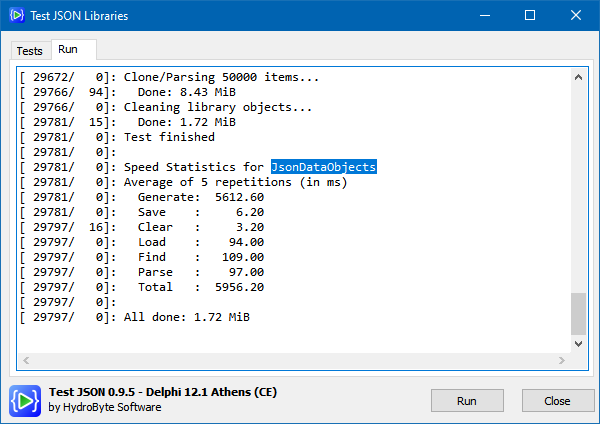
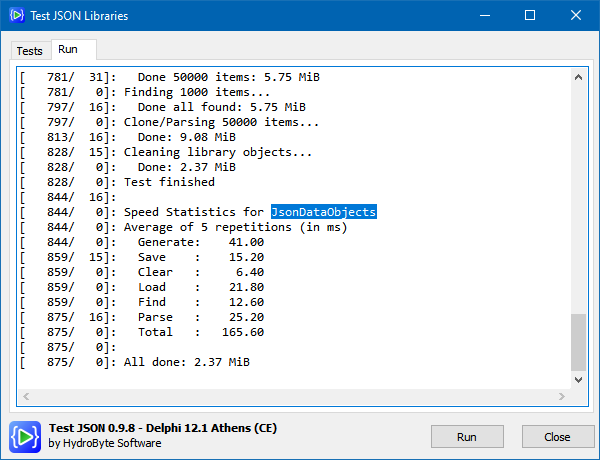
Update JsonDataObjects as Submodule.

diff --git a/README.md b/README.md
@@ -66,24 +66,24 @@ This is a performance test with the following configuration (select `Default` in
 
 ### Results with Delphi
 
-Library             | Generate  | Save     | Load     | Find     | Parse    | [Total]   | Memory    |
-:-------------------|----------:|---------:|---------:|---------:|---------:|----------:|----------:|
-`Neslib.Json`       |     .03 s |    .03 s |    .03 s |    .00 s |    .04 s |    0.18 s | 10.19 MiB |  
-`Grijjy.Bson`       |     .03 s |    .04 s |    .04 s |    .00 s |    .06 s |    0.23 s |  7.52 MiB |
-`mORMot2`           |     .02 s |    .01 s |    .02 s |    .12 s |    .02 s |    0.23 s |  7.91 MiB |
-`chimera.json`      |     .04 s |    .03 s |    .08 s |    .01 s |    .08 s |    0.30 s |  8.78 MiB |  
-`McJSON`            |     .02 s |    .06 s |    .02 s |    .18 s |    .08 s |    0.41 s |  9.85 MiB |
-`System.JSON`       |     .02 s |    .01 s |    .06 s |    .22 s |    .06 s |    0.43 s | 11.38 MiB |
-`EasyJson`          |     .02 s |    .01 s |    .06 s |    .23 s |    .07 s |    0.45 s | 11.38 MiB |  
-`LkJson`            |     .06 s |    .05 s |    .10 s |    .01 s |    .14 s |    0.45 s |  2.99 MiB |
-`JsonDoc`           |     .30 s |    .13 s |    .16 s |    .01 s |    .46 s |    1.13 s |  6.14 MiB |
-`SuperObject`       |     .13 s |   1.21 s |    .05 s |    .00 s |    .06 s |    1.53 s |  9.68 MiB |
-`dwsJSON`           |     .01 s |    .01 s |   0.92 s |    .03 s |   0.91 s |    1.92 s |  9.88 MiB |
-`JsonDataObjects`   |    5.61 s |    .01 s |    .09 s |    .11 s |    .10 s |    5.97 s |  8.98 MiB |
-`JsonTools`         |   10.36 s |        - |        - |    .22 s |   8.55 s |   19.18 s |  7.88 MiB |
-`Json4Delphi`       |     .02 s |    .06 s |  35.00 s |    .40 s |  35.71 s |   71.23 s | 11.57 MiB |
-`DynamicDataObjects`|   28.73 s |    .02 s |  30.24 s |    .58 s |  29.25 s |   88.88 s | 11.51 MiB |
-`X-SuperObject`     |  5.18 min |    .06 s | 1.77 min |   6.18 s | 1.76 min |  8.81 min | 11.48 MiB |
+Library             | Generate  | Save     | Load     | Find     | Parse    | [Total]   | Memory    | Pitfalls |
+:-------------------|----------:|---------:|---------:|---------:|---------:|----------:|----------:|---------:|
+`JsonDataObjects`   |     .04 s |    .02 s |    .02 s |    .01 s |    .03 s |    0.17 s |  9.08 MiB | Leaks    |
+`Neslib.Json`       |     .03 s |    .03 s |    .03 s |    .00 s |    .04 s |    0.18 s | 10.19 MiB |          |  
+`Grijjy.Bson`       |     .03 s |    .04 s |    .04 s |    .00 s |    .06 s |    0.23 s |  7.52 MiB |          |
+`mORMot2`           |     .02 s |    .01 s |    .02 s |    .12 s |    .02 s |    0.23 s |  7.91 MiB |          |
+`chimera.json`      |     .04 s |    .03 s |    .08 s |    .01 s |    .08 s |    0.30 s |  8.78 MiB |          | 
+`McJSON`            |     .02 s |    .06 s |    .02 s |    .18 s |    .08 s |    0.41 s |  9.85 MiB |          |
+`System.JSON`       |     .02 s |    .01 s |    .06 s |    .22 s |    .06 s |    0.43 s | 11.38 MiB |          |
+`EasyJson`          |     .02 s |    .01 s |    .06 s |    .23 s |    .07 s |    0.45 s | 11.38 MiB |          |  
+`LkJson`            |     .06 s |    .05 s |    .10 s |    .01 s |    .14 s |    0.45 s |  2.99 MiB |          |
+`JsonDoc`           |     .30 s |    .13 s |    .16 s |    .01 s |    .46 s |    1.13 s |  6.14 MiB |          |
+`SuperObject`       |     .13 s |   1.21 s |    .05 s |    .00 s |    .06 s |    1.53 s |  9.68 MiB |          |
+`dwsJSON`           |     .01 s |    .01 s |   0.92 s |    .03 s |   0.91 s |    1.92 s |  9.88 MiB |          |
+`JsonTools`         |   10.36 s |        - |        - |    .22 s |   8.55 s |   19.18 s |  7.88 MiB | Fails    |
+`Json4Delphi`       |     .02 s |    .06 s |  35.00 s |    .40 s |  35.71 s |   71.23 s | 11.57 MiB |          |
+`DynamicDataObjects`|   28.73 s |    .02 s |  30.24 s |    .58 s |  29.25 s |   88.88 s | 11.51 MiB |          |
+`X-SuperObject`     |  5.18 min |    .06 s | 1.77 min |   6.18 s | 1.76 min |  8.81 min | 11.48 MiB |          |
 
 Notes: 
 - See [Conclusions](#Conclusions) about the `EasyJson` and `System.JSON`.
